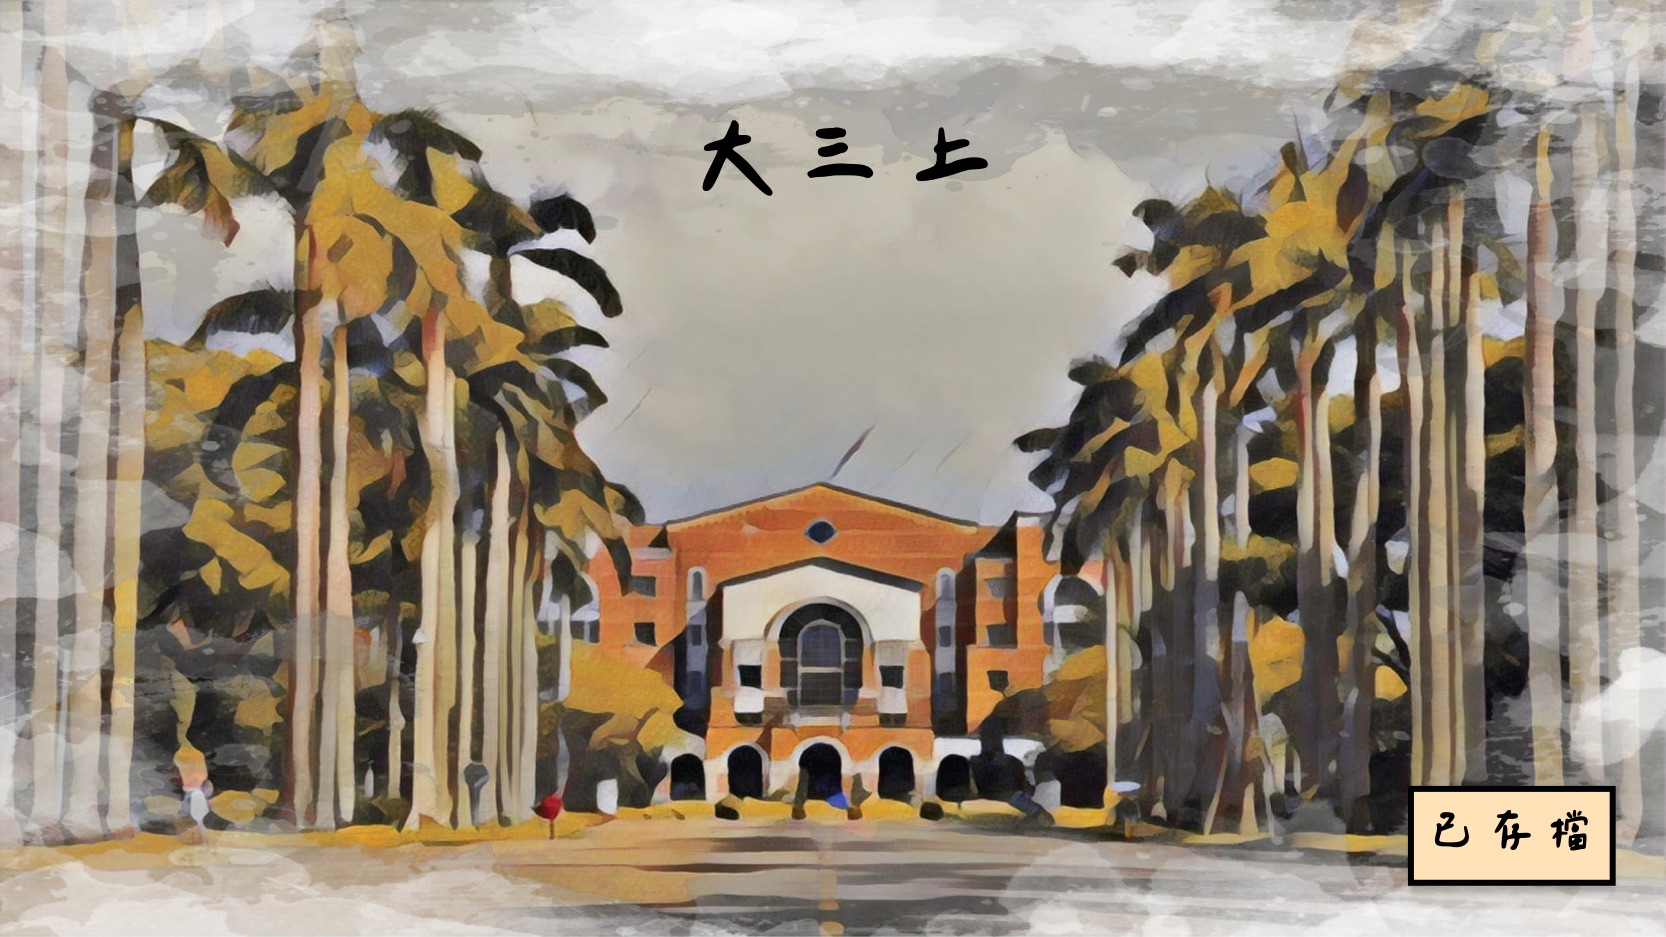
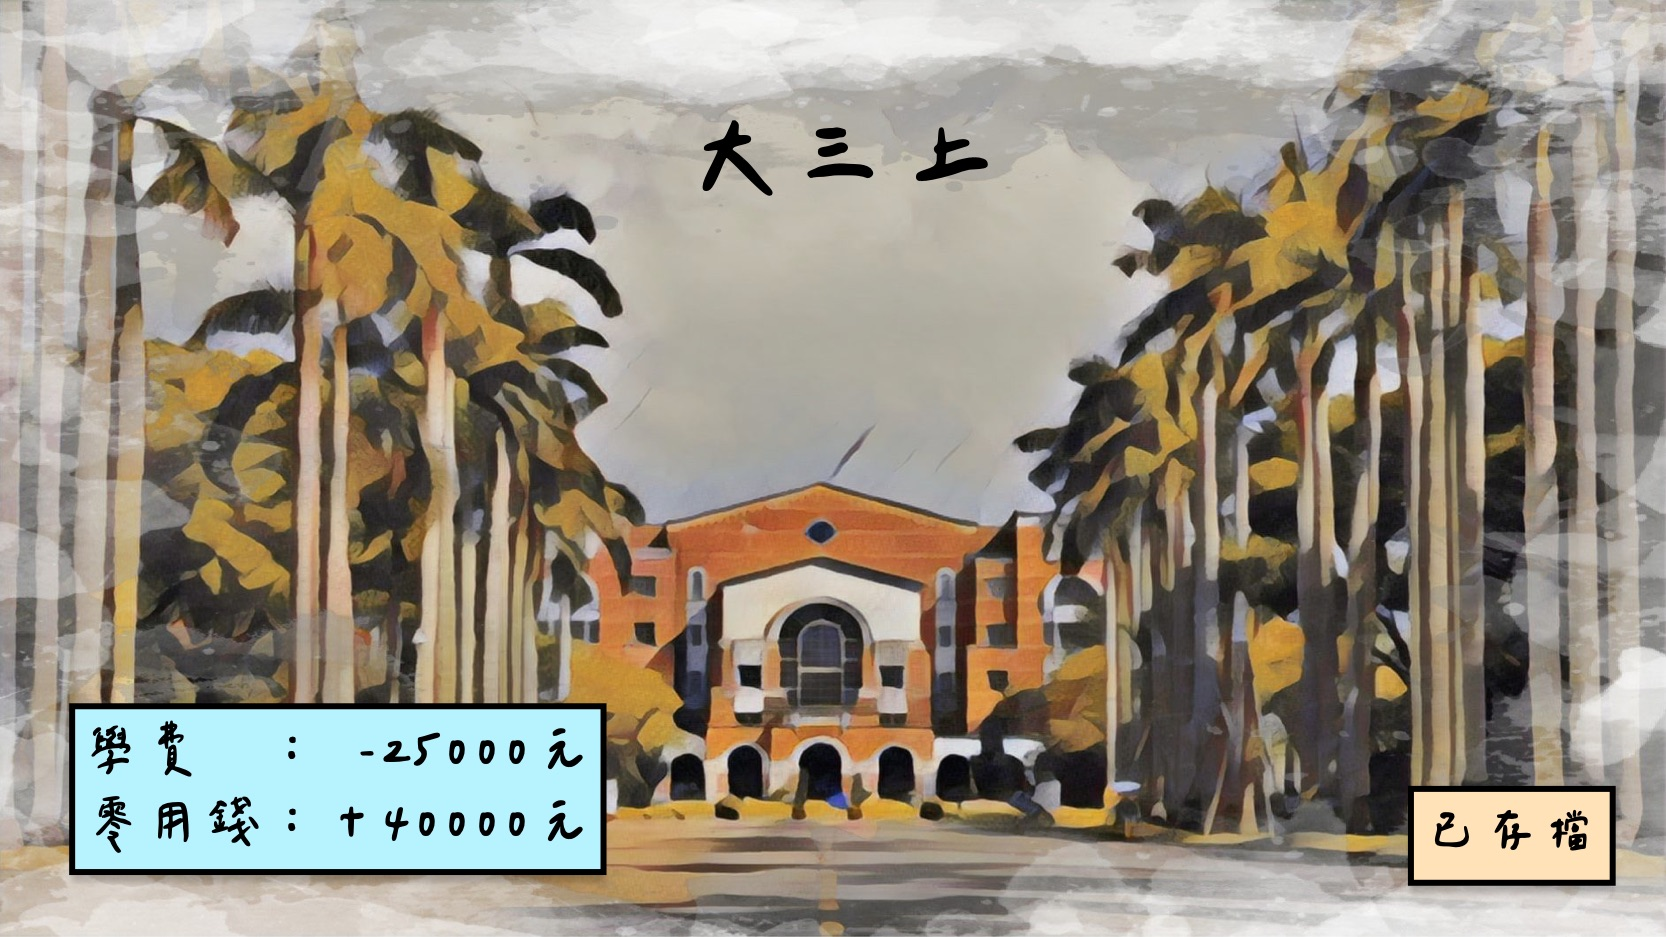
更新更多費用、費用，顯示收據
1.學費、餐費
2.各式事件費用顯示
3.給零用錢
4.增加書卷獎

Changed region(s): [[0.0312, 0.7428, 0.3745, 0.9594]]

diff --git a/function/final_report.py b/function/final_report.py
@@ -59,7 +59,7 @@ def show_final_report(window, data, grades):
     # 現在text裡有目前所有要清掉的widgets，按按鈕後一次清除
 
     
-def press_flip_button(window, data, used_widgets, widget1, widget2, grades):
+def press_flip_button(window, data, used_widgets, background, small_bg, grades):
     for widget in used_widgets:
         widget.destroy()
     
@@ -71,11 +71,15 @@ def press_flip_button(window, data, used_widgets, widget1, widget2, grades):
     show_grades = []
 
     class_fail = 0
+    class_A_plus = 0
     show_grades.append("你的成績如下：")
     for item in grades.keys():
         show_grades.append(f"{item}:{grades[item]}分\n")
         if grades[item] < 60:
             class_fail += 1
+        elif grades[item] >= 90:
+            class_A_plus += 1
+
     for i in range(len(show_grades)): 
         if i == 0:
             text.append(tk.Label(window, text = show_grades[i],fg = "black", font = title_f))
@@ -84,14 +88,17 @@ def press_flip_button(window, data, used_widgets, widget1, widget2, grades):
             text.append(tk.Label(window, text = show_grades[i],fg = "black", font = f))
             text[i].place(x = 640 - text[i].winfo_reqwidth()/2, y = 200 + text[i].winfo_reqheight() * i)
 
+    if class_A_plus == 3:
+        data["status"].money += 10000
+        data["status"].cash_flow["書卷獎"] += 10000
+
+
     if class_fail >= 2:
         drop_out_button = tk.Button(window, text = "繼續", font = f, command = lambda: [destroy_widgets(text), sound.play_button_sound(), show.process_event(data, ["中途結束事件:被二一"])])
         drop_out_button.place(x = 800, y = 600)
-        text.append(widget1)
-        text.append(widget2)
         text.append(drop_out_button)
     else:
-        check_ability_button = tk.Button(window, text = "你發現信封裡還有其他東西...", font = button_f, command = lambda: [press_check_ability_button(window, data, text, widget1, widget2), sound.play_button_sound()])
+        check_ability_button = tk.Button(window, text = "你發現信封裡還有其他東西...", font = button_f, command = lambda: [press_check_ability_button(window, data, text, background, small_bg), sound.play_button_sound()])
         check_ability_button.place(x = 800, y = 600)
 
         text.append(check_ability_button)
@@ -103,7 +110,7 @@ def destroy_widgets(used_widgets):
         widget.destroy()
 
 
-def press_check_ability_button(window, data, used_widgets, widget1, widget2):
+def press_check_ability_button(window, data, used_widgets, background, small_bg):
     for widget in used_widgets:
         widget.destroy()
     
@@ -133,8 +140,55 @@ def press_check_ability_button(window, data, used_widgets, widget1, widget2):
     ability_graph = ImageTk.PhotoImage(ability_graph)
     ability = tk.Label(window, image = ability_graph)
     ability.image = ability_graph
-    ability.place(x = 640 - widget2.winfo_reqwidth()/2.3, y = 140)
+    ability.place(x = 640 - small_bg.winfo_reqwidth()/2.3, y = 140)
     
+    receipt_button = tk.Button(window, text = "看學期收據", font = f, command = lambda: [press_receipt_button(window, data, text), sound.play_button_sound()])
+    receipt_button.place(x = 850, y = 620)
+
+    text.append(receipt_button)
+    text.append(ability)
+    # 現在text裡有目前所有要清掉的widgets，按按鈕後一次清除
+
+
+def press_receipt_button(window, data, used_widgets, background, small_bg):
+    for widget in used_widgets:
+        widget.destroy()
+
+    title_f = tk.font.Font(size = 36)
+    f = tk.font.Font(size = 20)
+
+    read_data = ["本學期額外收支"]
+    read_data.append("此處紀錄你在各種事件內現金得失")
+
+    if data["status"].cash_flow["書卷獎"] != 0:
+        read_data.append("收入：")
+        read_data.append(f"{key}：{data["status"].cash_flow["書卷獎"]}元")
+        data["status"].cash_flow["書卷獎"] = 0
+
+    empty = True
+
+    for key in data["status"].cash_flow.keys():
+        if data["status"].cash_flow[key] != 0:
+            if empty:
+                read_data.append("支出：")
+                empty = False
+            read_data.append(f"{key}：{-data["status"].cash_flow[key]}元")
+            data["status"].cash_flow[key] = 0
+
+    read_data.append(f"你現在有{data["status"].money}元的現金。")      
+
+    text = []
+    for i in range(len(read_data)): 
+        if i == 0:
+            text.append(tk.Label(window, text = read_data[i],fg = "black", font = title_f))
+        elif i == 1:
+            text.append(tk.Label(window, text = read_data[i].strip("\n"),fg = "black", font = f))
+
+        if i == 0:
+            text[i].place(x = 640 - text[i].winfo_reqwidth()/2, y = 25)
+        elif i == 1:
+            text[i].place(x = 220, y = 100)
+
     time_list = ["大一上", "大一下", "大二上", "大二下","大三上", "大三下","大四上","大四下"]
     if data["time"] == "大四下":
         nextbutton = tk.Button(window, text = "歡樂畢業！", font = f, command = lambda: [press_next_button(window, data, text), sound.play_button_sound()])
@@ -142,21 +196,18 @@ def press_check_ability_button(window, data, used_widgets, widget1, widget2):
     elif data["time"][2] == "上":
         data["time"] = time_list[time_list.index(data["time"])+1]
         nextbutton = tk.Button(window, text = "下學期來囉", font = f, command = lambda: [press_next_button(window, data, text), sound.play_button_sound()])
-        nextbutton.place(x = 850, y = 620)
     else:
         data["time"] = time_list[time_list.index(data["time"])+1]
         nextbutton = tk.Button(window, text = "進入暑假", font = f, command = lambda: [press_next_button(window, data, text), sound.play_button_sound()])
     nextbutton.place(x = 850, y = 620)
 
-    text.append(widget1)
-    text.append(widget2)
+    text.append(background)
+    text.append(small_bg)
     text.append(nextbutton)
-    text.append(ability)
-    # 現在text裡有目前所有要清掉的widgets，按按鈕後一次清除
+
 
 def press_next_button(window, data, used_widgets):
     time_list = ["大一上", "大一下", "大二上", "大二下","大三上", "大三下","大四上","大四下"]
-    sound.enter_game_button_sound()
     for widget in used_widgets:
         widget.destroy()
 

diff --git a/function/status.py b/function/status.py
@@ -18,7 +18,7 @@ class Status:
         self.fitness = fitness  
         self.social = social  
         self.health = health  
-        self.money = 40000  
+        self.money = 0
         self.san = 100  
         self.rest_time = 100  
         self.score = dict()
@@ -33,7 +33,7 @@ class Status:
         self.achievement = achievement.Achievement()
         self.time = 0
         self.freq = True, True, True, True, True, True, True, True, True, True
-        self.cash_flow = {"學費":0, "伙食費":0, "急診":0, "咖啡":0, "健身":0, "約會":0, "社交":0, "打工":0, "零用錢":0, "書卷獎":0}
+        self.cash_flow = {"學費":0, "伙食費":0, "急診":0, "咖啡":0, "健身":0, "約會":0, "社交":0, "打工":0, "月伙食費":0, "零用錢":0, "書卷獎":0, "健康檢查":0, "投資虛擬貨幣":0, "投資ETF":0, "投資債券":0, "結婚":0, "腳踏車贖金":0, "和女友約會支出":0, "暑假打工":0}
 
     # 每天獲得的san值(尚未加入累加機制，函式先隨便寫的)
     def san_reset(self):
@@ -44,7 +44,7 @@ class Status:
     # 學期初發錢
     def allowance(self):
         self.money += 40000
-        self.cash_flow["零用錢"] += 40000
+        self.money -= 25000
 
 
     # 跑一週的行程(更新數值的部分，若需要可加入觸發事件判斷)
@@ -73,6 +73,9 @@ class Status:
 
         self.health = int(self.health)
         self.cash_flow["咖啡"] = -money_spent
+
+        self.money -= 4000
+        self.cash_flow["月伙食費"] -= 4000
 
 
     # 在進行每一次事件前判斷精力值是否足夠並詢問要不要喝咖啡及之後處理得函式
@@ -320,6 +323,7 @@ def event_adjust(status, event_name, choice):
         if choice[0] == 1:
             status.health += 50
             status.money -= 500
+            status.cash_flow["健康檢查"] -= 500
             return
         else:
             status.health -= 50
@@ -457,7 +461,11 @@ def event_adjust(status, event_name, choice):
         else:
             status.prestige += 25
             status.wisdom += 25
-        return 
+        return
+    elif event_name == "打工":
+        status.money += 50000
+        status.cash_flow["暑假打工"] += 50000
+        return
     elif event_name == "當兵":
         if choice[0] == 1:
             status.fitness += 50
@@ -479,15 +487,19 @@ def event_adjust(status, event_name, choice):
     elif event_name == "虛擬貨幣":
         if status.luck >= 95:
             status.money += 400000
+            status.cash_flow["投資虛擬貨幣"] += 400000
             return
         else:
             status.money += 10000
+            status.cash_flow["投資虛擬貨幣"] += 10000
         return
     elif event_name == "ETF":
         status.money += 100000
+        status.cash_flow["投資ETF"] += 100000
         return
     elif event_name == "債券":
         status.money += 10000
+        status.cash_flow["投資債券"] += 10000
         return
     elif event_name == "陪另一半":
         status.love_progress += 50
@@ -527,6 +539,7 @@ def event_adjust(status, event_name, choice):
         if choice[0] == 1:
             status.love_progress = 1000
             status.money -= 50000
+            status.cash_flow["結婚"] -= 50000
             return
     elif event_name == "參加讀書會":
         if choice[0] == 1:
@@ -551,6 +564,7 @@ def event_adjust(status, event_name, choice):
             return "阿姨"
     elif event_name == "腳踏車被拖吊":
         status.money -= 300
+        status.cash_flow["腳踏車贖金"] -= 300
         return
     elif event_name == "第一次約會":
         if choice[0] == 1:
@@ -561,6 +575,7 @@ def event_adjust(status, event_name, choice):
             else:
                 if choice[2] == 1:
                     status.money -= 1000
+                    status.cash_flow["和女友約會支出"] -= 300
                     status.love_progress += 50
                     return
                 else:
@@ -568,6 +583,7 @@ def event_adjust(status, event_name, choice):
                     return
         elif choice[0] == 2:
             status.money -= 1000
+            status.cash_flow["和女友約會支出"] -= 1000
             if choice[1] == 1:
                 status.charm -= 25
                 return
@@ -576,6 +592,7 @@ def event_adjust(status, event_name, choice):
                 return
         else:
             status.money -= 1000
+            status.cash_flow["和女友約會支出"] -= 1000
             if choice[1] == 1:
                 status.charm -= 50
                 status.love_progress -= 50

diff --git a/function/schedule.py b/function/schedule.py
@@ -133,7 +133,7 @@ class Schedule:
         if schedule_time == "期中考":
             schedule_time = "第三次排行程表"
 
-        subtitle4 = tk.Label(window, text = f"  {schedule_time}", font = f, bg = "#eeefee")
+        subtitle4 = tk.Label(window, text = f"  {schedule_time[::2]}個月", font = f, bg = "#eeefee")
         widgets.append(subtitle4)
 
         background.image = schedule
@@ -272,7 +272,7 @@ def show_cash_flow(window, data, widgets):
     button_f = tkFont.Font(size=24)
 
     revenueLabel = tk.Label(window, text = f"收入-打工:{data['status'].cash_flow['打工']}元", font = f)
-    expenseLabel = tk.Label(window, text = f"支出-健身:{-data['status'].cash_flow['健身']}元、約會:{-data['status'].cash_flow['約會']}元、社交:{-data['status'].cash_flow['社交']}元", font = f)
+    expenseLabel = tk.Label(window, text = f"支出-健身:{-data['status'].cash_flow['健身']}元、約會:{-data['status'].cash_flow['約會']}元、社交:{-data['status'].cash_flow['社交']}元、月伙食費:{-data['status'].cash_flow['月伙食費']}元", font = f)
     revenueLabel.place(x = 50, y = 550)
     expenseLabel.place(x = 50, y = 575)
     widgets.append(revenueLabel)

diff --git a/system/semester.py b/system/semester.py
@@ -30,4 +30,5 @@ def start_semester(window, data, picked, time):
 def press_start(data, background, startButton, picked):
     background.destroy()
     startButton.destroy()
+    data["status"].allowance()
     schedule.get_new_schedule(data["status"].display, picked, data, True)
